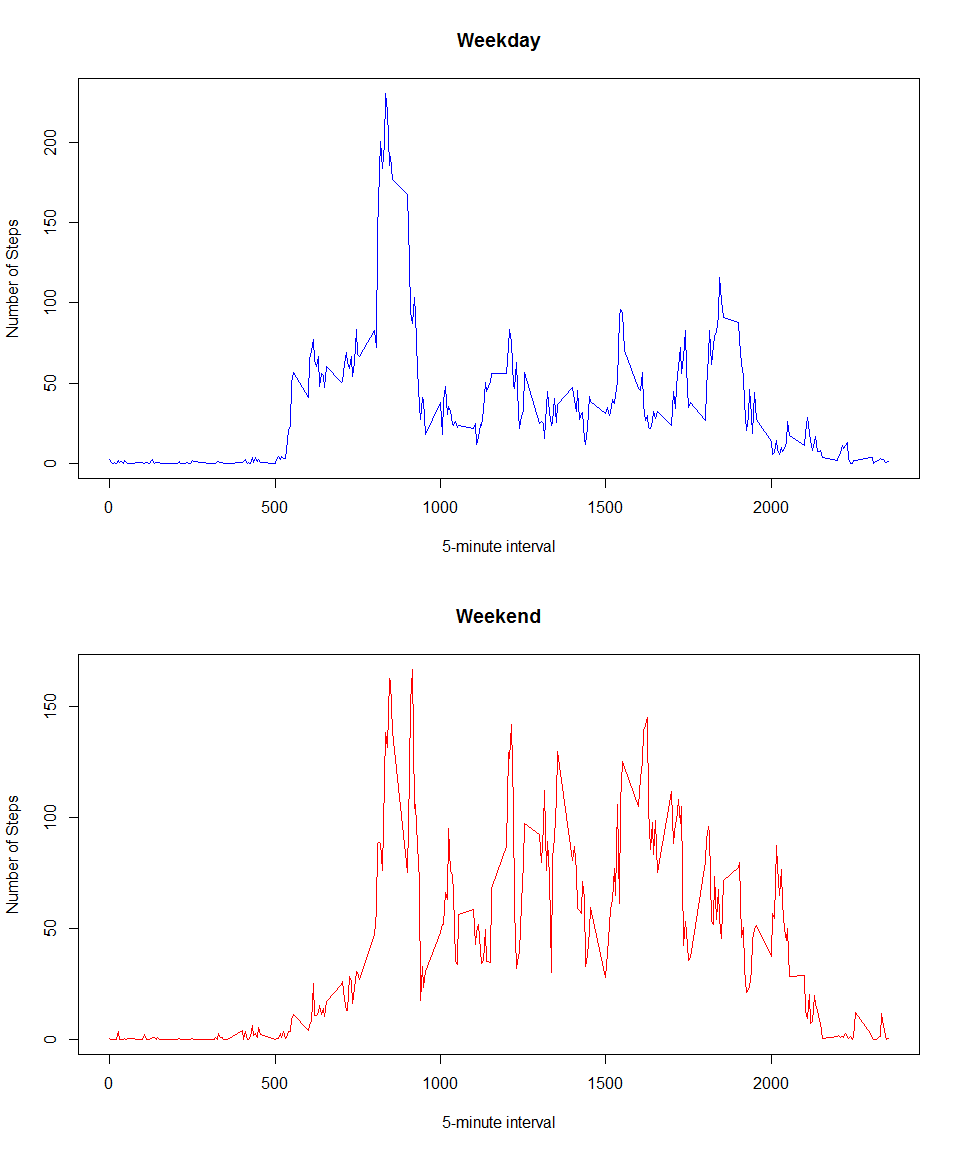
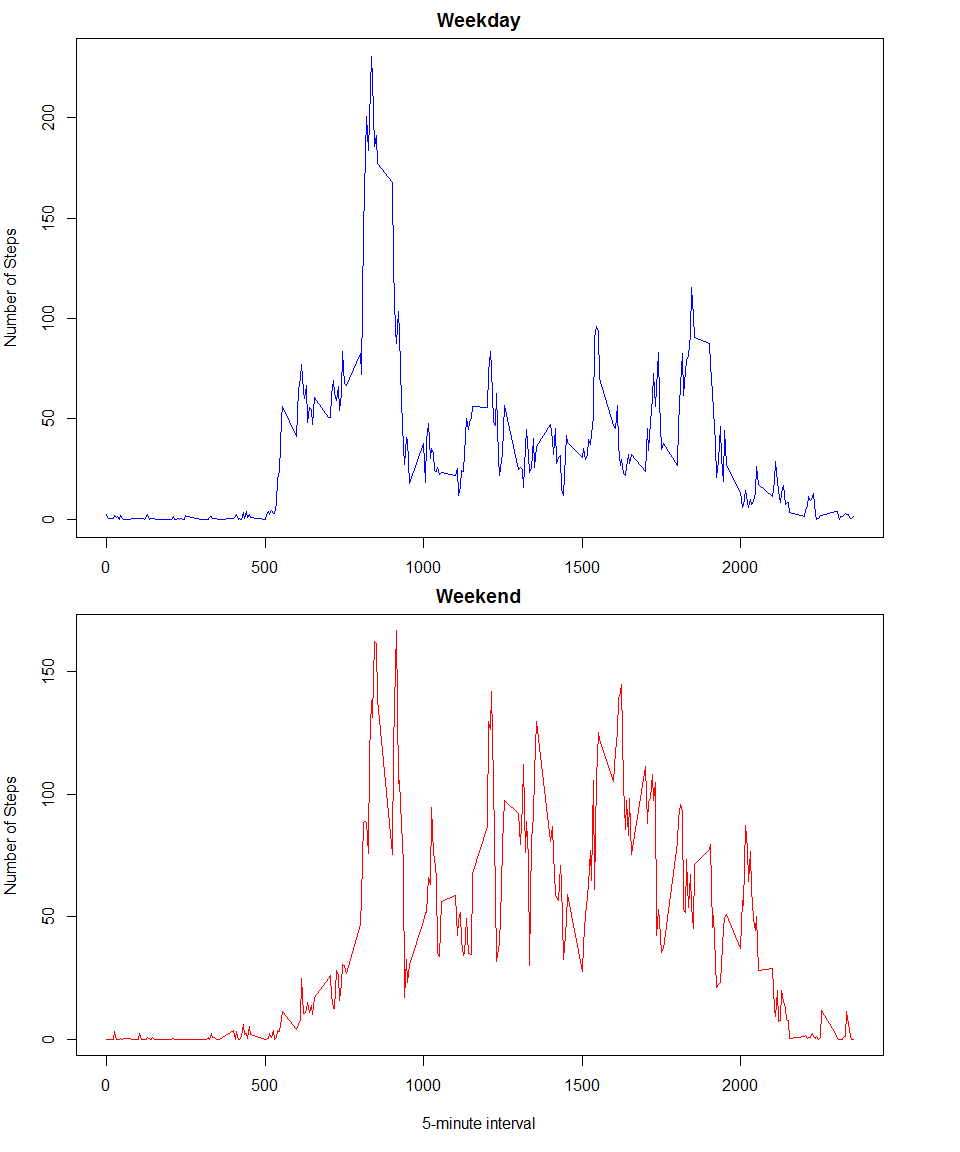
Second Commit Fix Typo's & Plot4

diff --git a/PA1_template.html b/PA1_template.html
@@ -56,11 +56,9 @@ if (window.hljs && document.readyState && document.readyState === "complete") {
 
 
 <p><strong>January 2015</strong> repdata-010</p>
-<div id="set-options-in-r" class="section level3">
-<h3>Set Options in R</h3>
+<p><strong>Set Options in R</strong></p>
 <pre class="r"><code>## Suppress Scientific Notation &amp; Limit Decimals to 2 Places   
 options(scipen=999, digits = 2)</code></pre>
-</div>
 <div id="loading-and-preprocessing-the-data" class="section level2">
 <h2>Loading and preprocessing the data</h2>
 <p><strong>1. Load the data</strong></p>
@@ -157,8 +155,8 @@ hist(newSumOfSteps$steps, col=&quot;darkblue&quot;, main = &quot;Histogram of To
 <p><strong>Do the mean and median values of total number of steps differ from the estimates from the first part of the assignment?</strong></p>
 <p>Yes</p>
 <ul>
-<li><p>Mean Value Ignoring Missing Values was 9354.23steps and Mean Value With Missing Values Filled in is 10766.19steps.</p></li>
-<li><p>Median Value Ignoring Missing Values was 10395 steps and Median Value With Missing Values Filled in is 10766.19steps.</p></li>
+<li><p>Mean Value Ignoring Missing Values was 9354.23 steps and Mean Value With Missing Values Filled in is 10766.19 steps.</p></li>
+<li><p>Median Value Ignoring Missing Values was 10395 steps and Median Value With Missing Values Filled in is 10766.19 steps.</p></li>
 </ul>
 <p><strong>What is the impact of imputing missing data on the estimates of the total daily number of steps?</strong></p>
 <ul>
@@ -180,15 +178,17 @@ for (i in 1:length(dayNames)) {
 newData$daytype &lt;- as.factor(dayNames)</code></pre>
 <p><strong>2. Make a panel plot containing a time series plot of the 5-minute interval (x-axis) and the average number of steps taken, averaged across all weekday days or weekend days (y-axis).</strong></p>
 <pre class="r"><code>weekdays &lt;- newData[newData$daytype == &quot;weekday&quot;,]   
-meanOfWeekdays &lt;- aggregate(weekdays[&quot;steps&quot;], by=list(&quot;interval&quot; = weekdays$interval), FUN=mean, na.rm=TRUE)</code></pre>
-<pre class="r"><code>weekends &lt;- newData[newData$daytype == &quot;weekend&quot;,]
+meanOfWeekdays &lt;- aggregate(weekdays[&quot;steps&quot;], by=list(&quot;interval&quot; = weekdays$interval), FUN=mean, na.rm=TRUE)
+weekends &lt;- newData[newData$daytype == &quot;weekend&quot;,]
 meanOfWeekends &lt;- aggregate(weekends[&quot;steps&quot;], by=list(&quot;interval&quot; = weekends$interval), FUN=mean, na.rm=TRUE)</code></pre>
 <div id="activity-patterns-weekday-vs-weekend" class="section level3">
 <h3>Activity Patterns Weekday vs Weekend</h3>
 <pre class="r"><code>par(mfrow=c(2,1))
-plot(meanOfWeekdays$interval, meanOfWeekdays$steps, type = &quot;l&quot;, main = &quot;Weekday&quot;, xlab = &quot;5-minute interval&quot;, ylab = &quot;Number of Steps&quot;, col = &quot;blue&quot;)
+par(mar = c(2, 4, 2, 4))
+plot(meanOfWeekdays$interval, meanOfWeekdays$steps, type = &quot;l&quot;, main = &quot;Weekday&quot;, xlab = &quot;&quot;, ylab = &quot;Number of Steps&quot;, col = &quot;blue&quot;)
+par(mar = c(5, 4, 2, 4))
 plot(meanOfWeekends$interval, meanOfWeekends$steps, type = &quot;l&quot;, main = &quot;Weekend&quot;, xlab = &quot;5-minute interval&quot;, ylab = &quot;Number of Steps&quot;, col = &quot;red&quot;)</code></pre>
[2 lines of base64/hex data omitted]
 </div>
 <div id="r-session-information" class="section level3">
 <h3>R Session Information</h3>
@@ -196,7 +196,7 @@ plot(meanOfWeekends$interval, meanOfWeekends$steps, type = &quot;l&quot;, main =
 <p><strong>Platform:</strong> x86_64-w64-mingw32/x64 (64-bit)</p>
 <p><strong>locale:</strong><br />[1] LC_COLLATE=English_United States.1252<br />[2] LC_CTYPE=English_United States.1252<br />[3] LC_MONETARY=English_United States.1252<br />[4] LC_NUMERIC=C<br />[5] LC_TIME=English_United States.1252</p>
 <p><strong>attached base packages:</strong><br />[1] stats<br />[2] graphics<br />[3] grDevices<br />[4] utils<br />[5] datasets<br />[6] methods<br />[7] base</p>
-<p><strong>loaded via a namespace (and not attached):</strong><br />[1] digest_0.6.4<br />[2] htmltools_0.2.6<br />[3] rmarkdown_0.3.3<br />[4] tools_3.1.2<br />[5] yaml_2.1.13<br />—————————————————————–</p>
+<p><strong>loaded via a namespace (and not attached):</strong><br />[1] digest_0.6.4<br />[2] htmltools_0.2.6<br />[3] rmarkdown_0.3.3<br />[4] tools_3.1.2<br />[5] yaml_2.1.13</p>
 </div>
 </div>
 

diff --git a/PA1_template.md b/PA1_template.md
@@ -1,7 +1,7 @@
 # Reproducible Research: Peer Assessment 1
 **January 2015** repdata-010   
 
-### Set Options in R  
+**Set Options in R**     
         
 
 ```r
@@ -189,9 +189,9 @@ median(newSumOfSteps$steps)
 
 Yes  
 
-- Mean Value Ignoring Missing Values was 9354.23steps and  Mean Value With Missing Values Filled in is 10766.19steps.   
+- Mean Value Ignoring Missing Values was 9354.23 steps and  Mean Value With Missing Values Filled in is 10766.19 steps.   
 
-- Median Value Ignoring Missing Values was 10395 steps and  Median Value With Missing Values Filled in is 10766.19steps. 
+- Median Value Ignoring Missing Values was 10395 steps and  Median Value With Missing Values Filled in is 10766.19 steps. 
 
 **What is the impact of imputing missing data on the estimates of the total daily number of steps?**   
 
@@ -222,10 +222,6 @@ newData$daytype <- as.factor(dayNames)
 ```r
 weekdays <- newData[newData$daytype == "weekday",]   
 meanOfWeekdays <- aggregate(weekdays["steps"], by=list("interval" = weekdays$interval), FUN=mean, na.rm=TRUE)
-```
-
-
-```r
 weekends <- newData[newData$daytype == "weekend",]
 meanOfWeekends <- aggregate(weekends["steps"], by=list("interval" = weekends$interval), FUN=mean, na.rm=TRUE)
 ```
@@ -235,7 +231,9 @@ meanOfWeekends <- aggregate(weekends["steps"], by=list("interval" = weekends$int
 
 ```r
 par(mfrow=c(2,1))
-plot(meanOfWeekdays$interval, meanOfWeekdays$steps, type = "l", main = "Weekday", xlab = "5-minute interval", ylab = "Number of Steps", col = "blue")
+par(mar = c(2, 4, 2, 4))
+plot(meanOfWeekdays$interval, meanOfWeekdays$steps, type = "l", main = "Weekday", xlab = "", ylab = "Number of Steps", col = "blue")
+par(mar = c(5, 4, 2, 4))
 plot(meanOfWeekends$interval, meanOfWeekends$steps, type = "l", main = "Weekend", xlab = "5-minute interval", ylab = "Number of Steps", col = "red")
 ```
 
@@ -269,6 +267,6 @@ plot(meanOfWeekends$interval, meanOfWeekends$steps, type = "l", main = "Weekend"
 [3] rmarkdown_0.3.3   
 [4] tools_3.1.2    
 [5] yaml_2.1.13     
------------------------------------------------------------------  
+ 
 
 
